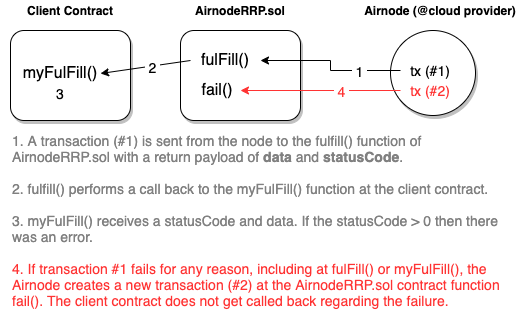
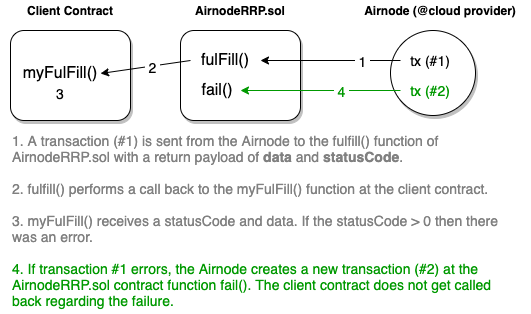
reqeustId hash And some cleanup of the request.md concept doc in general.

diff --git a/docs/next/concepts/request.md b/docs/next/concepts/request.md
@@ -7,9 +7,30 @@ title: Request
 <TocHeader />
 <TOC class="table-of-contents" :include-level="[2,3,4]" />
 
-When a requester makes a request using `AirnodeRrp.sol`, it is returned a `requestId`. This `requestId` is a hash of all request parameters and a nonce. This allows Airnode to verify that the request parameters are not tampered with.
+A request is made by a [requester](requester.md) to either the `makeFullRequest()` or `makeTemplateRequest()` function of the [AirnodeRrp.sol](README.md#airnoderrp-sol) protocol contract which adds the request to the event log. The targeted off-chain [Airnode](airnode.md) gathers the request from the event log and responds using the `fulFill()` function of AirnodeRrp.sol.
+
+>![concepts-request](../assets/images/concepts-request.png)
+
+Learn more on how to [Call an Airnode](../grp-developers/call-an-airnode.md).
+
+## `requestId`
+
+The `requestId` uniquely identifies a request. When a requester makes a request using `AirnodeRrp.sol`, a `requestId` is generated before the request is added to the event logs and the requestId is returned to the requester. This `requestId` is a hash of certain data members depending on which type of request is made, `makeFullRequest()` or `makeTemplateRequest()`. They only differ in that one uses `endpointId` and the other `templateId`. 
+
+|makeFullRequest()|makeTemplateRequest()|
+|:---------|:---------|
+|requesterRequestCount|requesterRequestCount|
+|block.chainid|block.chainid|
+|msg.sender|msg.sender|
+|<span style="color:purple;font-weight:bold;">endpointId</span>|<span style="color:purple;font-weight:bold;">templateId</span>|
+|sponsor|sponsor|
+|parameters|parameters|
+
+After the request (with `requestId`) is added to the event logs, Airnode gathers the request and verifies the `requestId` by re-computing its hash before responding to the request. This verifies the parameters have not been tampered with.
 
 ## Request Parameters
+
+The following list summarizes the values expected for the parameters of a request.
 
 - `templateId` the id of a template to use, _(only used for `makeTemplateRequest`)_
 
@@ -75,7 +96,11 @@ A request made to an Airnode has three possible outcomes:
 
 ### Fulfill
 
-`fulfill()` is the desired outcome and comes as _success_ (statusCode = 0) or as _errored_ ([statusCode](request.md#statuscode) > 0). This is the only outcome that returns results to a requester contract.
+`fulfill()` is the desired outcome and comes as _success_ ([statusCode](request.md#statuscode) = 0) **OR** as _errored_ (statusCode > 0). This 
+
+:::tip Note:
+Fulfill is the only outcome that returns results to a requester contract.
+:::
 
 For a successful request, Airnode  calls the `fulfill()` function in `AirnodeRRP.sol` that will in turn call back the requster contract at `fulfillAddress` using function `fulfillFunctionId` to deliver `data` and a [`statusCode`](https://github.com/api3dao/airnode/blob/6f31a4c27d40e86101673bf37d223fef6625dfdd/packages/protocol/contracts/AirnodeRrp.sol#L148) of 0. If there was an error then statusCode will be non-0. The requester contract can then handle this error as it sees fit (e.g., ignore it, make a request to an alternative provider, etc.)
 
@@ -84,12 +109,6 @@ For a successful request, Airnode  calls the `fulfill()` function in `AirnodeRRP
 ### Fail
 
 As noted in the diagram above, if the transaction that calls `fulfill()` reverts, the node calls the `fail()` method to report the failure. The node will not attempt to fulfill a failed request afterwards.
-
-<Fix>
-<p>
-The following three paragraphs are a little dense. See Github issue: https://github.com/api3dao/api3-docs/issues/108
-</p>
-</Fix>
 
 Airnode is stateless, which means that there is no database storing which requests have been fulfilled or failed, 
 which are waiting on confirmations and which are still pending. This information is retrieved from the chain on 
@@ -107,12 +126,12 @@ submitted during the current cycle and will be retried during the following cycl
 that this is specific to each requester. e.g. a request sent from requester A that becomes "blocked", will 
 not block requests sent from requester B.
 
-After X blocks (20 by default for EVM chains), any requests that would become "blocked", will instead become "ignored". 
-This means that Airnode will stop attempting to process the request in order to process later requests.
-
 ### Ignore
 
 If the Airnode cannot even fail a request (e.g., the requester is not sponsored by the sponsor), the request gets ignored.
+
+After X blocks (20 by default for EVM chains), any requests that would become "blocked", will instead become "ignored". 
+This means that Airnode will stop attempting to process the request in order to process later requests.
 
 ## statusCode
 
